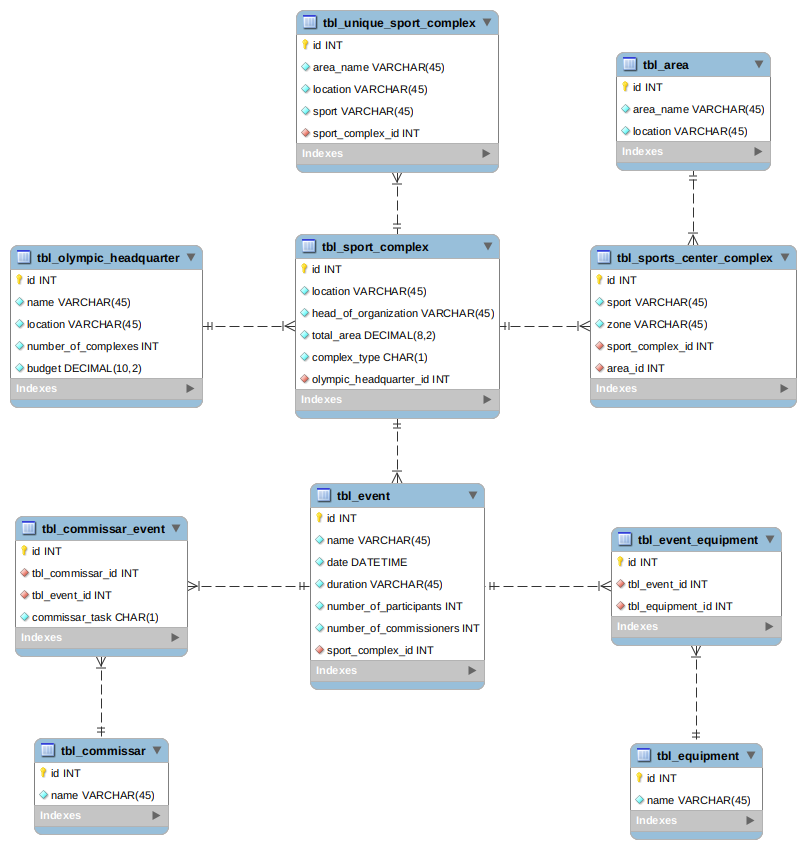
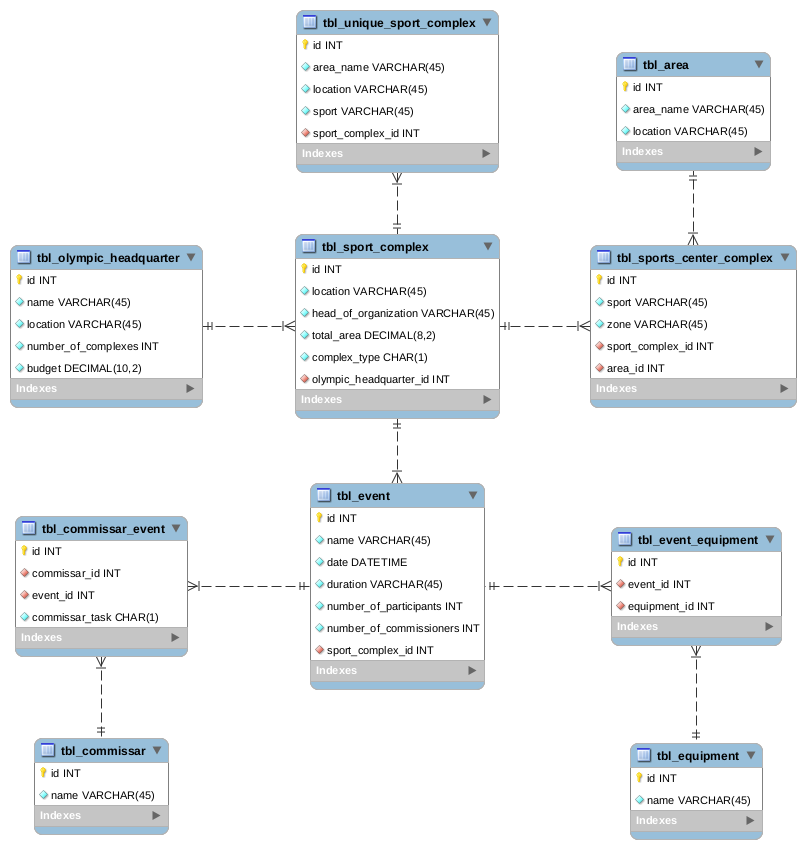
Se actualiza el modelo de base de datos y endpoints

diff --git a/README.md b/README.md
@@ -27,3 +27,62 @@
     ``` bash
     php artisan db:seed
     ```
+
+## Endpoints creados
+``` bash
++----------+-----------------------------------------+--------------+
+| Method   | URI                                     | Middleware   |
++----------+-----------------------------------------+--------------+
+| GET|HEAD |                                         | web          |
+| GET|HEAD | api/areas-complejos-polideportivos      | api,auth:api |
+| GET|HEAD | api/areas-complejos-polideportivos/{id} | api,auth:api |
+| POST     | api/auth/login                          | api          |
+| GET|HEAD | api/auth/logout                         | api,auth:api |
+| POST     | api/auth/signup                         | api          |
+| POST     | api/comisionados                        | api,auth:api |
+| GET|HEAD | api/comisionados                        | api,auth:api |
+| DELETE   | api/comisionados/{id}                   | api,auth:api |
+| PUT      | api/comisionados/{id}                   | api,auth:api |
+| GET|HEAD | api/comisionados/{id}                   | api,auth:api |
+| GET|HEAD | api/complejos-deporte-unico             | api,auth:api |
+| GET|HEAD | api/complejos-deporte-unico/{id}        | api,auth:api |
+| GET|HEAD | api/complejos-deportivos                | api,auth:api |
+| POST     | api/complejos-deportivos                | api,auth:api |
+| GET|HEAD | api/complejos-deportivos/{id}           | api,auth:api |
+| PUT      | api/complejos-deportivos/{id}           | api,auth:api |
+| DELETE   | api/complejos-deportivos/{id}           | api,auth:api |
+| GET|HEAD | api/complejos-polideportivos            | api,auth:api |
+| GET|HEAD | api/complejos-polideportivos/{id}       | api,auth:api |
+| GET|HEAD | api/equipamientos                       | api,auth:api |
+| POST     | api/equipamientos                       | api,auth:api |
+| DELETE   | api/equipamientos/{id}                  | api,auth:api |
+| PUT      | api/equipamientos/{id}                  | api,auth:api |
+| GET|HEAD | api/equipamientos/{id}                  | api,auth:api |
+| GET|HEAD | api/eventos                             | api,auth:api |
+| POST     | api/eventos                             | api,auth:api |
+| DELETE   | api/eventos/{id}                        | api,auth:api |
+| GET|HEAD | api/eventos/{id}                        | api,auth:api |
+| PUT      | api/eventos/{id}                        | api,auth:api |
+| GET|HEAD | api/login                               | api          |
+| POST     | api/sedes-olimpicas                     | api,auth:api |
+| GET|HEAD | api/sedes-olimpicas                     | api,auth:api |
+| DELETE   | api/sedes-olimpicas/{id}                | api,auth:api |
+| PUT      | api/sedes-olimpicas/{id}                | api,auth:api |
+| GET|HEAD | api/sedes-olimpicas/{id}                | api,auth:api |
+| DELETE   | oauth/authorize                         | web,auth     |
+| GET|HEAD | oauth/authorize                         | web,auth     |
+| POST     | oauth/authorize                         | web,auth     |
+| GET|HEAD | oauth/clients                           | web,auth     |
+| POST     | oauth/clients                           | web,auth     |
+| PUT      | oauth/clients/{client_id}               | web,auth     |
+| DELETE   | oauth/clients/{client_id}               | web,auth     |
+| GET|HEAD | oauth/personal-access-tokens            | web,auth     |
+| POST     | oauth/personal-access-tokens            | web,auth     |
+| DELETE   | oauth/personal-access-tokens/{token_id} | web,auth     |
+| GET|HEAD | oauth/scopes                            | web,auth     |
+| POST     | oauth/token                             | throttle     |
+| POST     | oauth/token/refresh                     | web,auth     |
+| GET|HEAD | oauth/tokens                            | web,auth     |
+| DELETE   | oauth/tokens/{token_id}                 | web,auth     |
++----------+-----------------------------------------+--------------+
+```
